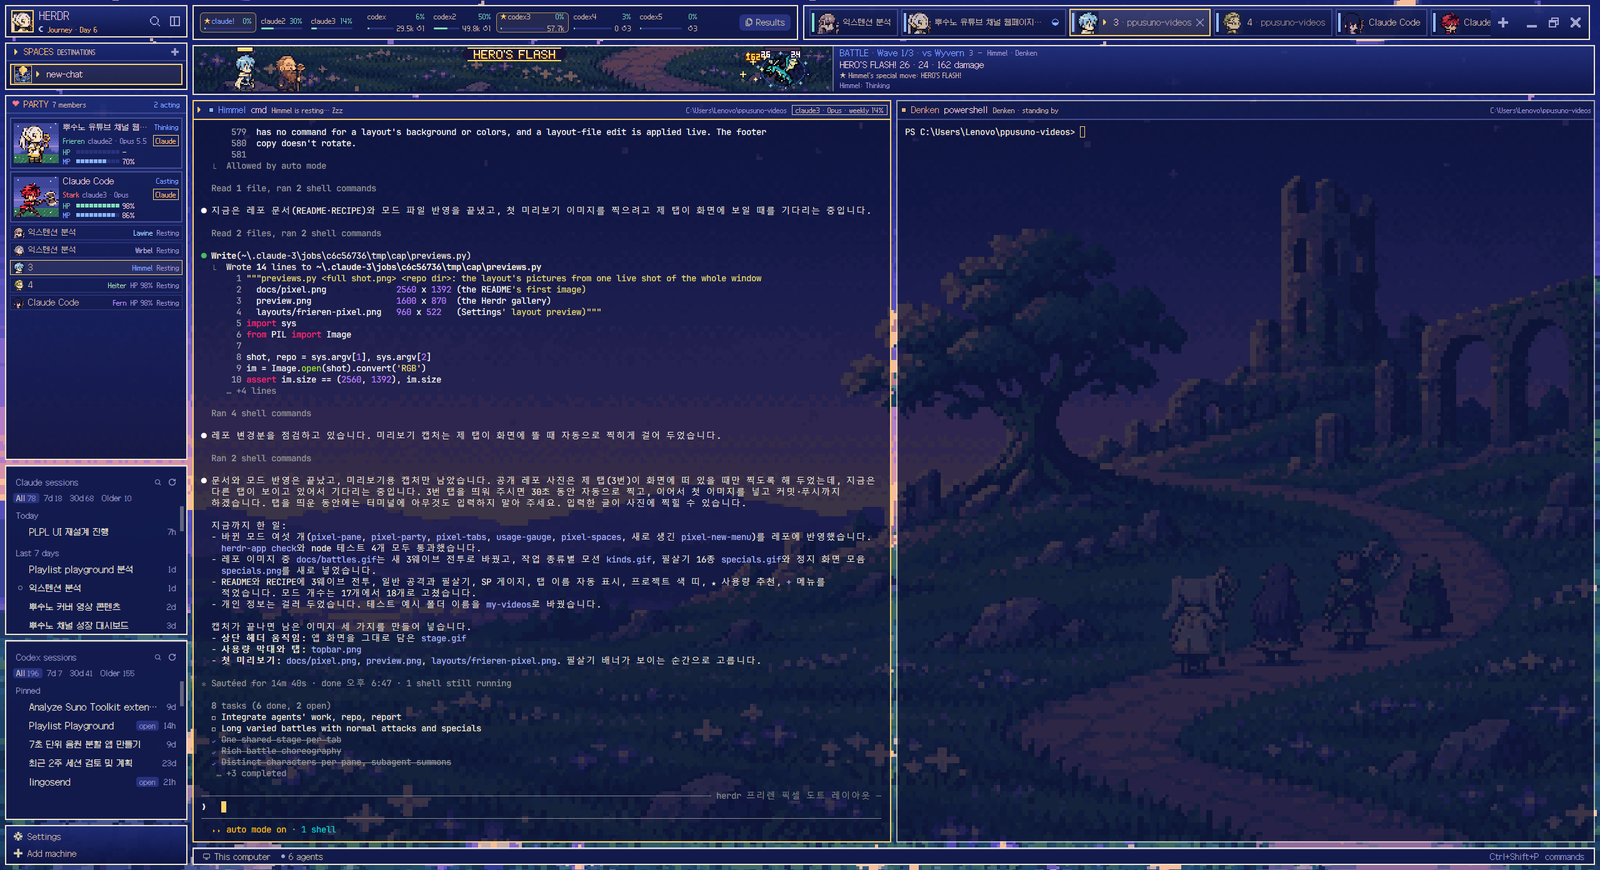
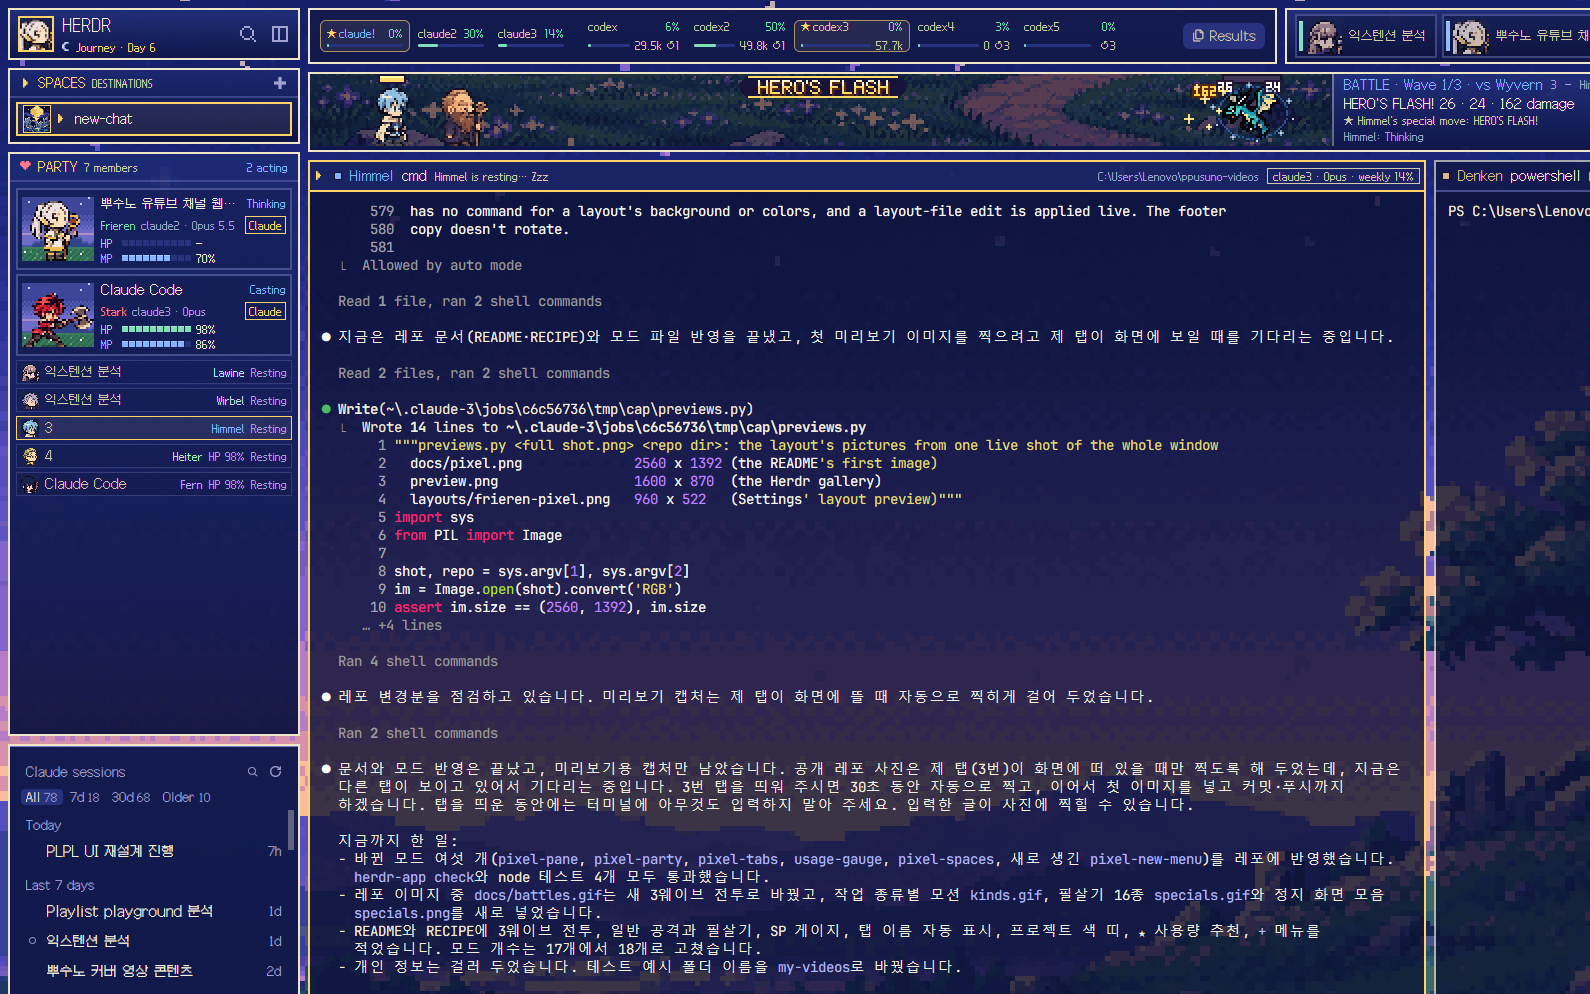
Gallery preview: the top-left of the window at 1.4x, 16:10 like the cards

diff --git a/README.md b/README.md
@@ -524,7 +524,8 @@ mods/ (the rest)                nine tool mods both layouts use (session lists, 
                                 herdr-sessions/spaces.py sorts sessions into spaces (spaces.example.json)
 keys.json                       the key bindings to merge
 RECIPE.md                       the full build brief (exact sizes, colors, behavior)
-preview.png                     the picture the Herdr gallery shows (Frieren Pixel)
+preview.png                     the picture the Herdr gallery shows (Frieren Pixel): the top-left of
+                                docs/frieren-pixel.png at 1.4×, 16:10 like the gallery's cards
 docs/                           the screenshots and animations in this README
 NOTICE, LICENSES/               attribution and license text for the derived code and the fonts
 ```
